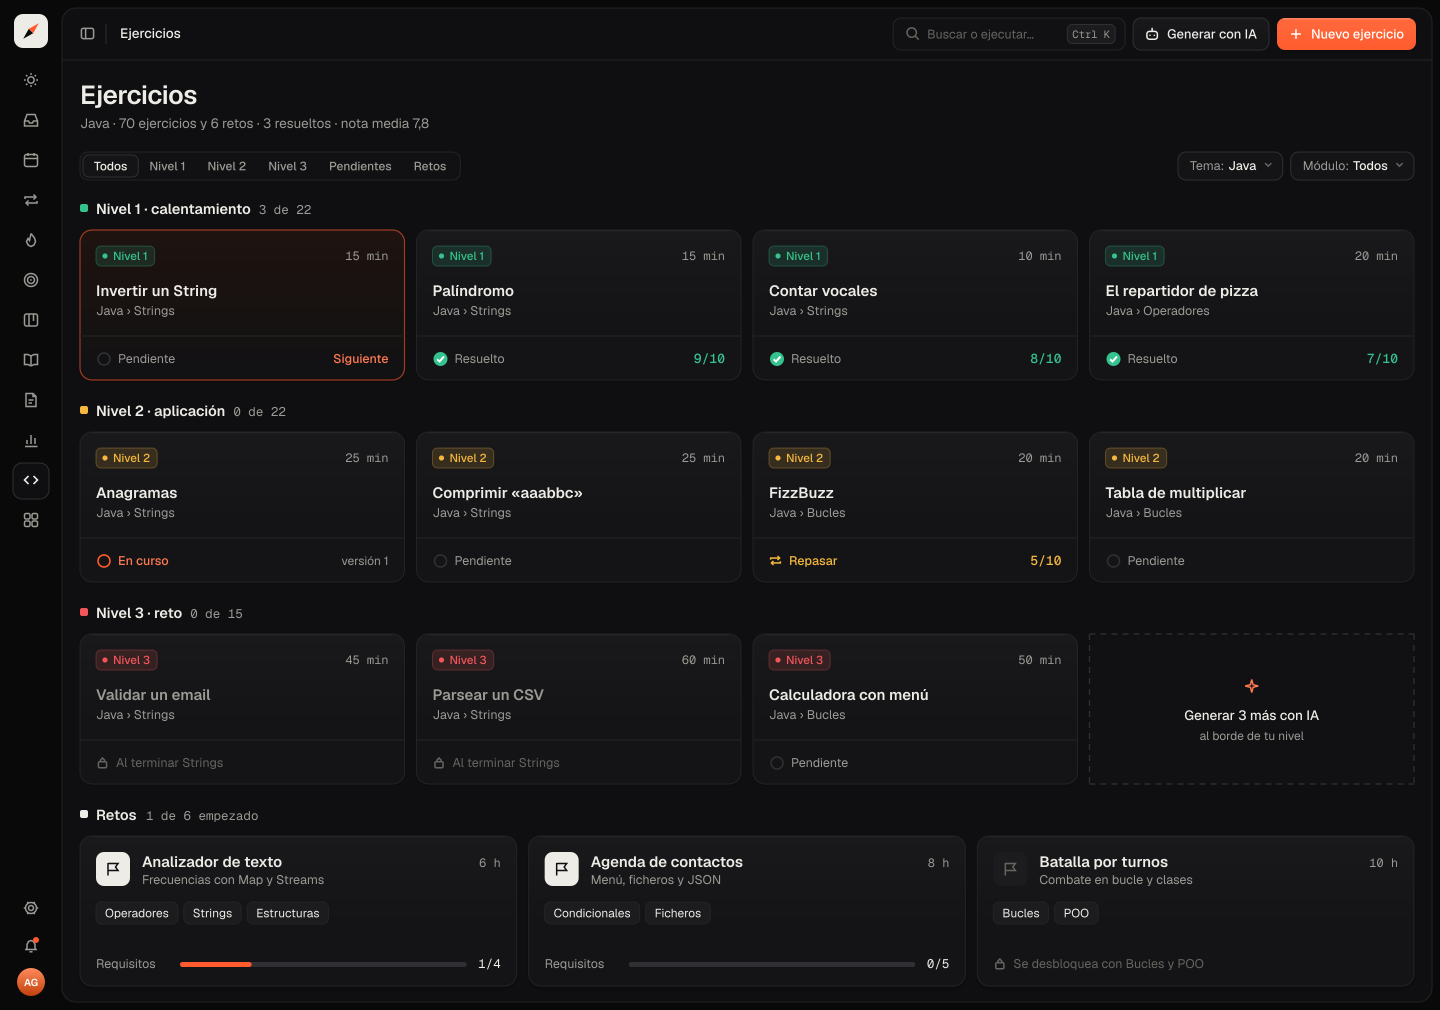
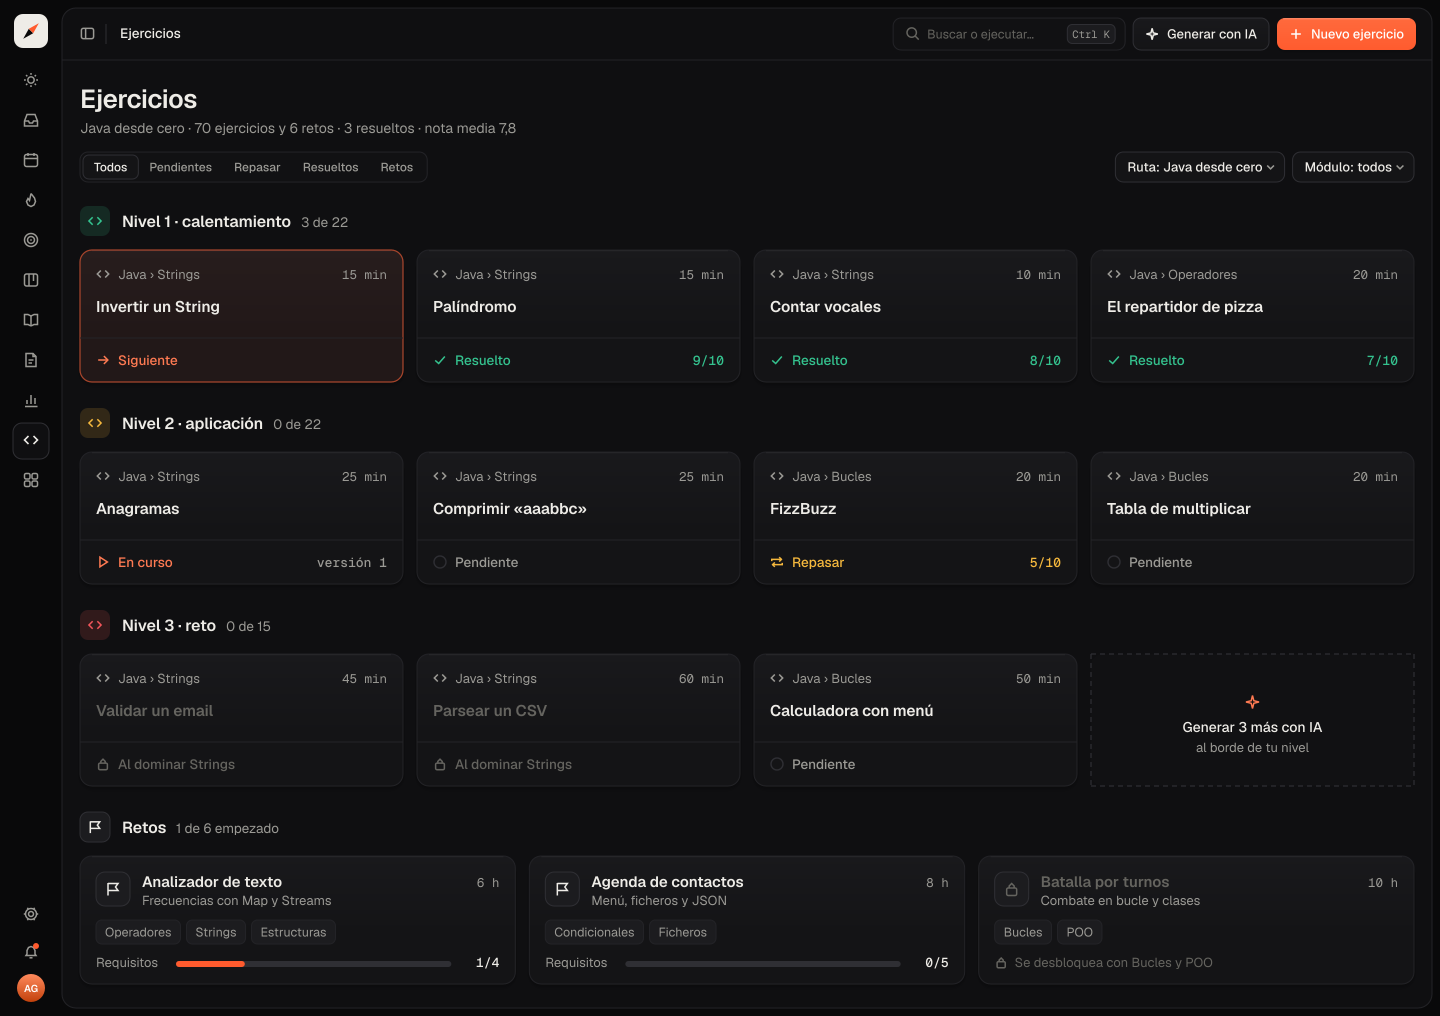
docs(design): complete design system with the workflow, the guide and every page
Adds the workflow map and the design guide, and redraws Focus, Tasks,
the Notion-like Calendar with routines and habits inside, Habits, the
goal panel, Projects, Roadmaps in phases with phase projects, Modules,
Exercises, Knowledge (formerly Notes), Areas, Metrics, Settings and the
AI panel.

diff --git a/docs/design/README.md b/docs/design/README.md
@@ -1,28 +1,55 @@
 # Diseño
 
-Las láminas son la referencia visual: la app tiene que parecerse a esto. Si una pantalla no está aquí, primero se diseña.
+Las láminas son la referencia visual: la app tiene que parecerse a esto. Si una pantalla no está aquí, primero se diseña (maqueta y aprobación) y después se programa.
 
-**Estética:** raíl de iconos a la izquierda, tarjetas con luz y sombra suave, bermellón `#FF5B2E` como único acento, Geist y Geist Mono, ilustraciones planas sin personas. Cada pantalla responde a una sola pregunta.
+Antes de diseñar o programar una pantalla, lee [flujo.md](flujo.md) (a qué paso sirve) y [guia.md](guia.md) (con qué piezas se hace).
 
-Una carpeta por pestaña, en el orden del raíl de la especificación (Foco, Tareas, Calendario, Rutinas, Hábitos, Objetivos, Proyectos, Roadmaps, Notas, Métricas, Ejercicios; Áreas y Ajustes al final). Dentro, primero la pantalla principal y después sus funciones.
+**Estética:** raíl de iconos a la izquierda, tarjetas con luz y sombra suave, paneles laterales flotantes para el detalle, bermellón `#FF5B2E` como único acento, Geist y Geist Mono, ilustraciones planas sin personas. Cada pantalla responde a una sola pregunta.
 
-| # | Pestaña | Pregunta | Láminas | Fase |
-|---|---|---|---|---|
-| 00 | [General](00-general/) | — | [Bienvenida](00-general/01-bienvenida.png) · [Buscar](00-general/02-buscar.png) · [Movimiento](00-general/03-movimiento.png) · [Microinteracciones](00-general/04-microinteracciones.png) | 1-5 |
-| 01 | [Foco](01-foco/) | ¿Qué hago ahora? | [Foco](01-foco/01-foco.png) · [Claro](01-foco/02-foco-claro.png) · [Modo enfoque](01-foco/03-modo-enfoque.png) · [Cerrar el día](01-foco/04-cerrar-el-dia.png) | 3 |
-| 02 | [Tareas](02-tareas/) | ¿Qué tengo pendiente y dónde? | [Inbox](02-tareas/01-inbox.png) · [Próximas](02-tareas/02-proximas.png) · [Nueva tarea](02-tareas/03-nueva-tarea.png) · [Detalle](02-tareas/04-detalle-tarea.png) · [Contadores](02-tareas/05-contadores.png) · [Procesar inbox](02-tareas/06-procesar-inbox.png) | 1 · 3 |
-| 03 | [Calendario](03-calendario/) | ¿Cuándo lo hago? | [Semana](03-calendario/01-semana.png) | 4 |
-| 04 | [Rutinas](04-rutinas/) | ¿Qué hago cada día a qué hora? | [Rutinas](04-rutinas/01-rutinas.png) · [Editor](04-rutinas/02-editor-rutina.png) · [Interruptor](04-rutinas/03-interruptor.png) · [Crear rutina](04-rutinas/04-crear-rutina.png) | 3 |
-| 05 | [Hábitos](05-habitos/) | ¿Cómo van mis rachas? | [Hábitos](05-habitos/01-habitos.png) · [Crear hábito](05-habitos/02-crear-habito.png) | 1 |
-| 06 | [Objetivos](06-objetivos/) | ¿Qué quiero lograr? | [Objetivo](06-objetivos/01-objetivo.png) · [Visión](06-objetivos/02-vision.png) · [Crear objetivo](06-objetivos/03-crear-objetivo.png) · [Objetivo sin plan](06-objetivos/04-objetivo-sin-plan.png) | 6 |
-| 07 | [Proyectos](07-proyectos/) | ¿Qué estoy construyendo? | [Proyectos](07-proyectos/01-proyectos.png) · [Crear proyecto: gym](07-proyectos/02-crear-proyecto.png) · [Crear proyecto: marketing](07-proyectos/03-crear-proyecto-marketing.png) | 6 |
-| 08 | [Roadmaps](08-roadmaps/) | ¿Qué estoy aprendiendo? | [Roadmaps](08-roadmaps/01-roadmaps.png) · [Roadmap](08-roadmaps/02-roadmap.png) · [Módulo](08-roadmaps/03-modulo.png) · [Repaso](08-roadmaps/04-repaso.png) · [Crear con IA](08-roadmaps/05-crear-ruta-ia.png) · [Ruta con vídeos](08-roadmaps/06-ruta-con-videos.png) · [Temario](08-roadmaps/07-temario.png) | 2 · 7 |
-| 09 | [Notas](09-notas/) | ¿Qué sé y qué he escrito? | [Notas](09-notas/01-notas.png) · [Nota](09-notas/02-nota.png) · [Nota en claro](09-notas/03-nota-clara.png) | 5 |
-| 10 | [Métricas](10-metricas/) | ¿Cómo voy? | [Métricas](10-metricas/01-metricas.png) | 9 |
-| 11 | [Ejercicios](11-ejercicios/) | ¿Qué practico? | [Ejercicios](11-ejercicios/01-ejercicios.png) · [Ejercicio](11-ejercicios/02-ejercicio.png) · [Reto](11-ejercicios/03-reto.png) | 2 · 7 |
-| 12 | [Áreas](12-areas/) | ¿Cómo va cada parte de mi vida? | [Áreas](12-areas/01-areas.png) · [Desarrollo](12-areas/02-area-desarrollo.png) · [Gym](12-areas/03-area-gym.png) · [Nueva área](12-areas/04-nueva-area.png) · [Plantillas](12-areas/05-plantillas.png) · [Tema · Resumen](12-areas/06-tema-resumen.png) · [Tema · Ruta](12-areas/07-tema-ruta.png) · [Tema · Apuntes](12-areas/08-tema-apuntes.png) · [Tema · Ejercicios](12-areas/09-tema-ejercicios.png) · [Tema · Retos](12-areas/10-tema-retos.png) · [Tema · Recursos](12-areas/11-tema-recursos.png) | 6 |
-| 13 | [Ajustes](13-ajustes/) | — | [Ajustes](13-ajustes/01-ajustes.png) | 1 |
+**Raíl:** Foco · Tareas · Calendario · Hábitos · Objetivos · Proyectos · Roadmaps · Conocimiento · Métricas · Ejercicios · Áreas, con Ajustes abajo. Las rutinas viven en el Calendario y no hay página Visión. Notas pasa a llamarse Conocimiento. La IA se abre desde cualquier pantalla con `Ctrl J`.
 
-La página de un tema (Java) vive dentro de Áreas (`Áreas › Desarrollo › Java`); Roadmaps cruza las áreas y enseña solo las rutas.
+## Índice final (diseño vigente)
 
-Las láminas se generan con VectorCraft, fuera del repo (`Rumbo-UI-v3`, `v4-Aprender`, `v5-Rutinas` y `v6-Roadmaps`, que las reúne todas con el raíl actual).
+| # | Página | Pregunta | Láminas vigentes |
+|---|---|---|---|
+| 00 | General | — | [Flujo](00-general/06-flujo.png) · [Guía de diseño](00-general/05-guia.png) · [Panel de IA](00-general/07-panel-ia.png) |
+| 01 | Foco | ¿Qué hago ahora? | [Foco](01-foco/01-foco.png) |
+| 02 | Tareas | ¿Qué tengo pendiente y dónde? | [Tareas con panel de detalle](02-tareas/01-tareas.png) |
+| 03 | Calendario | ¿Cuándo lo hago? | [Semana con fuentes](03-calendario/01-semana.png) · [Rutina y crear al arrastrar](03-calendario/02-rutina.png) |
+| 05 | Hábitos | ¿Cómo van mis rachas? | [Hábitos con panel](05-habitos/01-habitos.png) |
+| 06 | Objetivos | ¿Qué quiero lograr? | [Objetivo (panel)](06-objetivos/01-objetivo.png) · [Objetivo sin plan](06-objetivos/04-objetivo-sin-plan.png) |
+| 07 | Proyectos | ¿Qué estoy construyendo? | [Proyectos con panel](07-proyectos/01-proyectos.png) |
+| 08 | Roadmaps | ¿Qué estoy aprendiendo? | [Roadmap por fases](08-roadmaps/02-roadmap.png) · [Módulo (panel)](08-roadmaps/03-modulo.png) |
+| 09 | Conocimiento | ¿Qué sé y qué he escrito? | [Árbol, lectura y lo importante](09-conocimiento/01-conocimiento.png) · [Modo lectura](09-conocimiento/02-modo-lectura.png) |
+| 10 | Métricas | ¿Cómo voy? | [Métricas en 5 bloques](10-metricas/01-metricas.png) |
+| 11 | Ejercicios | ¿Qué practico? | [Ejercicios](11-ejercicios/01-ejercicios.png) |
+| 12 | Áreas | ¿Cómo va cada parte de mi vida? | [Galería de áreas](12-areas/01-areas.png) · [Página de área: Desarrollo](12-areas/02-area-desarrollo.png) |
+| 13 | Ajustes | — | [Ajustes](13-ajustes/01-ajustes.png) |
+
+Claves del diseño vigente:
+
+- **Tareas:** el panel de la tarea va por secciones (Descripción · Cuándo · Dónde · Esfuerzo · Pasos · Recursos). El progreso se mide por pasos y el tiempo real por sesión; ya no hay contadores.
+- **Calendario:** las fuentes (Inbox, Sin fecha y áreas) abren un panel secundario de tarjetas para arrastrar. Las rutinas son bandas rayadas, los hábitos con hora se marcan en el propio bloque y los hábitos de hoy se marcan en la barra lateral.
+- **Roadmap:** se organiza en Fases → Módulos (temas + tareas) → Proyecto de fase.
+- **Crear desde el contexto:** lo que se crea dentro de un proyecto, módulo o fuente ya lleva ese contexto.
+
+## Láminas anteriores (referencia)
+
+Láminas de diseños anteriores, algunas con el raíl antiguo: sirven para las funciones que aún no tienen versión nueva y se rediseñan antes de programarlas.
+
+| Página | Láminas |
+|---|---|
+| General | [Bienvenida](00-general/01-bienvenida.png) · [Buscar](00-general/02-buscar.png) · [Movimiento](00-general/03-movimiento.png) · [Microinteracciones](00-general/04-microinteracciones.png) |
+| Foco | [Claro](01-foco/02-foco-claro.png) · [Modo enfoque](01-foco/03-modo-enfoque.png) · [Cerrar el día](01-foco/04-cerrar-el-dia.png) |
+| Tareas | [Inbox](02-tareas/01-inbox.png) · [Próximas](02-tareas/02-proximas.png) · [Nueva tarea](02-tareas/03-nueva-tarea.png) · [Detalle (sustituido)](02-tareas/04-detalle-tarea.png) · [Contadores (descartado)](02-tareas/05-contadores.png) · [Procesar inbox](02-tareas/06-procesar-inbox.png) |
+| Hábitos | [Crear hábito](05-habitos/02-crear-habito.png) |
+| Objetivos | [Visión (descartada)](06-objetivos/02-vision.png) · [Crear objetivo](06-objetivos/03-crear-objetivo.png) |
+| Proyectos | [Crear proyecto: gym](07-proyectos/02-crear-proyecto.png) · [Crear proyecto: marketing](07-proyectos/03-crear-proyecto-marketing.png) |
+| Roadmaps | [Roadmaps](08-roadmaps/01-roadmaps.png) · [Repaso](08-roadmaps/04-repaso.png) · [Crear con IA](08-roadmaps/05-crear-ruta-ia.png) · [Ruta con vídeos](08-roadmaps/06-ruta-con-videos.png) · [Temario](08-roadmaps/07-temario.png) |
+| Conocimiento | [Nota](09-conocimiento/02-nota-anterior.png) · [Nota en claro](09-conocimiento/03-nota-clara-anterior.png) |
+| Ejercicios | [Ejercicio](11-ejercicios/02-ejercicio.png) · [Reto](11-ejercicios/03-reto.png) |
+| Áreas | [Gym](12-areas/03-area-gym.png) · [Nueva área](12-areas/04-nueva-area.png) · [Plantillas](12-areas/05-plantillas.png) · [Tema · Resumen](12-areas/06-tema-resumen.png) · [Tema · Ruta](12-areas/07-tema-ruta.png) · [Tema · Apuntes](12-areas/08-tema-apuntes.png) · [Tema · Ejercicios](12-areas/09-tema-ejercicios.png) · [Tema · Retos](12-areas/10-tema-retos.png) · [Tema · Recursos](12-areas/11-tema-recursos.png) |
+
+## Cómo se generan
+
+Las láminas se generan con VectorCraft, fuera del repo, en `~/Documentos/Rumbo-diseño/generador/`. Las vigentes salen de `build14.py` (tanda 1), `build15.py` (tanda 2), `build16.py` (Conocimiento) y `build17.py` (tanda 3). Con `--docs`, cada script copia sus PNG a esta carpeta.

diff --git a/docs/design/guia.md b/docs/design/guia.md
@@ -1,0 +1,101 @@
+# Guía de diseño
+
+Las piezas con las que se hace cada pantalla. Lámina: [05-guia.png](00-general/05-guia.png). Si algo no está aquí, se diseña (y se aprueba) antes de programarlo. El paso del flujo al que sirve cada pantalla está en [flujo.md](flujo.md).
+
+## Principios
+
+- Sencillo, sin abrumar: poco texto, jerarquía clara, contenido útil a la vista.
+- Iconos en cada sección y en cada propiedad.
+- Se edita en su sitio: clic en el valor y cambia. No hay botón «Editar» que abra otra ventana.
+- El detalle siempre es un panel lateral flotante.
+- Un solo acento: bermellón `#FF5B2E`. Geist y Geist Mono. Sin emojis.
+- Lo siguiente siempre visible: Foco, Calendario y cada panel dicen cuál es el siguiente paso.
+
+## Página
+
+| Pieza | Medida |
+|---|---|
+| Raíl | 62 px, iconos 16; orden: Foco, Tareas, Calendario, Hábitos, Objetivos, Proyectos, Roadmaps, Notas, Métricas, Ejercicios, Áreas · Ajustes abajo |
+| Cabecera (ScreenHeader) | 52 px: migas 13.5 a la izquierda; buscar, acciones secundarias y **una** primaria a la derecha |
+| Título de página | 26 SemiBold en x = 80, y = 108; subtítulo 14 gris 25 px debajo |
+| Contenido | empieza en y = 150; 16 px entre tarjetas, 24 entre bloques |
+| Tarjeta | radio 12, borde 1 px, sombra suave, relleno 20 |
+
+## Panel lateral o página
+
+| Usa | Cuándo |
+|---|---|
+| Panel lateral (480-560 px, a 16 px del borde, radio 14) | El detalle de algo de una lista: tarea, objetivo, rutina, hábito. La lista sigue visible; se cierra con Esc o × |
+| Página propia | El contenido necesita todo el ancho: un roadmap, una nota, un área |
+| Ventana modal | Solo para crear algo nuevo desde cero o confirmar algo que no se puede deshacer |
+
+Panel: barra con tipo (o migas de contexto) y ext · más · cerrar; título 22 con su icono y lápiz; chip de estado; secciones; pie con un secundario a la izquierda y el primario a la derecha.
+
+## Tipografía
+
+| Uso | Tamaño · peso |
+|---|---|
+| Título de página | 26 · SemiBold |
+| Título de panel | 22 · SemiBold |
+| Título de sección | 15-16 · SemiBold, siempre con icono (nunca microcabeceras en mayúsculas) |
+| Título de fila | 14.5 · Medium |
+| Cuerpo y valor de propiedad | 14 · Regular / Medium |
+| Secundario | 13-13.5 · gris |
+| Datos (horas, n/m, minutos) | 13 · Geist Mono |
+| Mínimo absoluto | 12 |
+
+## Fila de propiedad
+
+| Parte | Regla |
+|---|---|
+| Icono | 16, gris |
+| Etiqueta | 14, gris, en x + 28 |
+| Valor | 14 Medium, alineado a 148 px |
+| Alto | 34-38 px |
+| Al pasar | fondo gris suave y chevron |
+| Editando | campo con borde bermellón y halo |
+| Vacío | «+ Añadir …» en gris tenue. Nunca un guion solo |
+
+## Listas y tablas
+
+| Parte | Regla |
+|---|---|
+| Cabecera | fondo gris, 13 Medium gris |
+| Fila | 56-64 px: casilla, título 14.5, debajo área (punto de color) y contexto (proyecto o ruta) |
+| Columnas de tarea | Cuándo (fecha · hora) · Pasos n/m · bandera de prioridad. Sin «contador» |
+| Seleccionada | bermellón al 7 % + barra de 3 px a la izquierda |
+| Crear | fila «+ Añadir a …» al final: lo creado hereda el contexto (fecha, proyecto, ruta) |
+
+## Colores por estado
+
+| Estado | Color | Ejemplos |
+|---|---|---|
+| Hecho / al día | verde `#34C38F` | Hecha, Activa, Al día |
+| Ahora / en curso | bermellón `#FF5B2E` | En curso, Ahora, la línea de ahora |
+| Necesita atención | ámbar `#F5B83D` | Por detrás, Racha en riesgo, prioridad Alta |
+| Atrasado / bloqueado | rojo `#F2555A` | Atrasada, En riesgo, prioridad Urgente |
+| Neutro | gris `#9B9A95` | Sin empezar, Sin plan |
+
+El color nunca va solo: chip con punto y texto. Las áreas tienen su color (Desarrollo azul, Inglés ámbar, Gym verde, Negocio violeta, Lectura rosa) y solo se usan como punto o icono.
+
+## Botones
+
+| Tipo | Uso |
+|---|---|
+| Primario | uno por pantalla o panel; alto 32, texto 13 Medium, atajo a la derecha |
+| Secundario | borde gris |
+| IA | secundario con chispa: «Completar con IA», «Organizar con IA» |
+| Enlace | «+ Añadir …» en bermellón |
+| Icono | 28-30 px, borde gris |
+
+## IA
+
+Sugerencia en una fila: fondo bermellón al 7 %, chispa, una frase (y una línea de porqué), **Aceptar** y **Descartar**. Siempre deshacer.
+
+## Estado vacío
+
+Una frase y una acción clara: icono en tile, título 16, una línea gris y el botón primario. Sin ilustraciones grandes ni párrafos.
+
+## Iconos
+
+Trazo 1.5 a 16 px; gris por defecto, blanco si está activo, bermellón solo para IA o lo de ahora. Cada sección y cada propiedad lleva el suyo (Hora reloj, Repetir flechas, Prioridad bandera, Dónde chincheta, Esfuerzo rayo, Pasos lista, Recursos enlace).

diff --git a/docs/design/flujo.md b/docs/design/flujo.md
@@ -1,0 +1,53 @@
+# Flujo de trabajo
+
+Cómo se usa Rumbo de principio a fin. Cada pantalla existe para un paso de este flujo; si una pantalla no sirve a ningún paso, sobra.
+
+## La jerarquía
+
+```
+Objetivo            qué quieres lograr y para cuándo
+├── Roadmap         lo que aprendes      → Módulos → (apuntes · ejercicios · recursos) → Tareas
+├── Proyecto        lo que construyes    → Hitos → Tareas
+└── Hábito          lo que repites       → Registro de cada día
+
+Rutina              un hueco fijo de tiempo (en el Calendario) que junta hábitos y estudio de un roadmap
+Tarea               lo que se hace un día concreto; la unidad de todo
+```
+
+Todo lo que haces cuelga de un objetivo. Una tarea sin objetivo es mantenimiento (comprar pan) o un objetivo que aún no has escrito.
+
+## Los cinco pasos
+
+| # | Paso | Pregunta | Dónde | Qué haces |
+|---|---|---|---|---|
+| 1 | **Decidir** | ¿Qué quiero lograr? | Objetivos | Creas el objetivo: nombre, área, fecha límite, por qué y resultados clave |
+| 2 | **Planear** | ¿Cómo llego? | Panel del objetivo → «Cómo llegas» | Conectas o creas un roadmap, un proyecto o un hábito. El roadmap trae sus módulos; el proyecto, sus hitos y tareas |
+| 3 | **Encajar** | ¿Cuándo lo hago? | Calendario | Creas rutinas (hueco fijo: «Estudio Java L-V 17-19») y pones fecha y hora a las tareas. La IA coloca las tareas sueltas en huecos libres |
+| 4 | **Hacer** | ¿Qué hago ahora? | Foco | Pulsas **Empezar**: te lleva al módulo o tarea, corre el temporizador y al acabar **Siguiente** |
+| 5 | **Revisar** | ¿Voy bien? ¿Llego? | Foco (cerrar el día) · Objetivos · Métricas | Cierras el día, ves el progreso que sube y si llegas a tiempo; ajustas si no |
+
+## Cómo sube el progreso
+
+```
+paso de tarea ✓ → tarea hecha → módulo dominado → roadmap → objetivo
+                              → hito / proyecto ────────────→ objetivo
+registro de hábito ✓ → racha → (hábito del objetivo) ─────────→ objetivo
+```
+
+Nada se escribe a mano dos veces: el progreso se calcula de abajo arriba.
+
+## Entradas laterales (siempre a mano)
+
+| Entrada | Qué hace | Dónde acaba |
+|---|---|---|
+| **Captura rápida** (`Ctrl N`) | Apuntas algo sin pensar dónde va: tarea o idea | Inbox o Ideas |
+| **Organizar con IA** | Propone dónde va cada tarea suelta: objetivo, proyecto, fecha, pasos | La tarea en su sitio |
+| **Ideas** | Lo que aún no es una tarea | Se convierte en tarea, proyecto u objetivo |
+| **Notas** | El conocimiento (Markdown en el vault) | Enlazado desde módulos, proyectos y objetivos |
+
+## Reglas del flujo
+
+- **Crear desde el contexto.** Una tarea creada dentro de un proyecto ya es de ese proyecto; un roadmap creado desde un objetivo ya está conectado. No hay que volver a elegir.
+- **Un solo sitio para cada cosa.** El detalle siempre es un panel lateral; editar es en su sitio.
+- **Lo siguiente siempre visible.** Cada objetivo, roadmap y proyecto dice cuál es su siguiente paso.
+- **La IA propone, tú decides.** Siempre con vista previa y deshacer.
